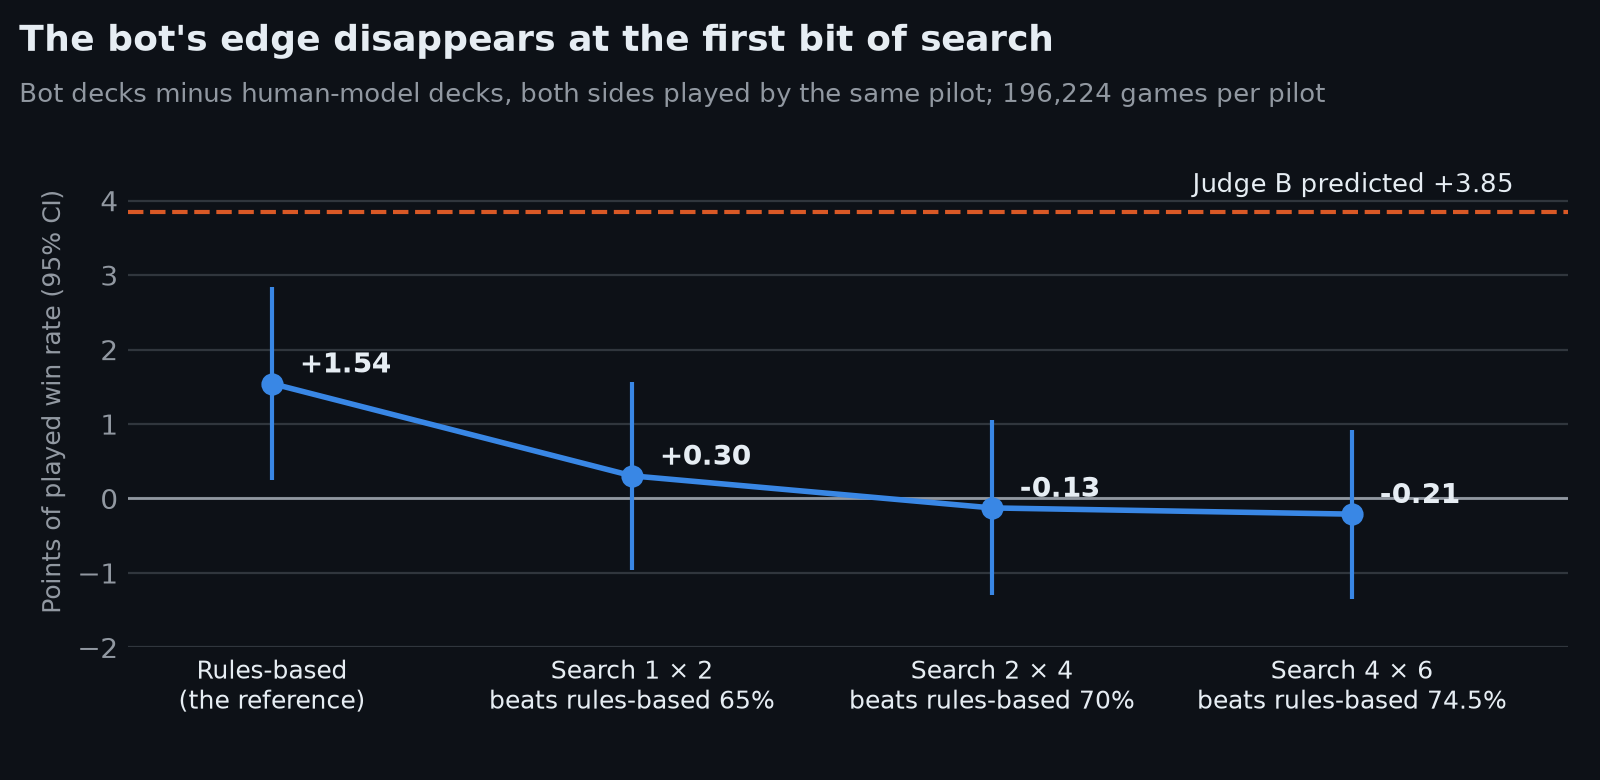
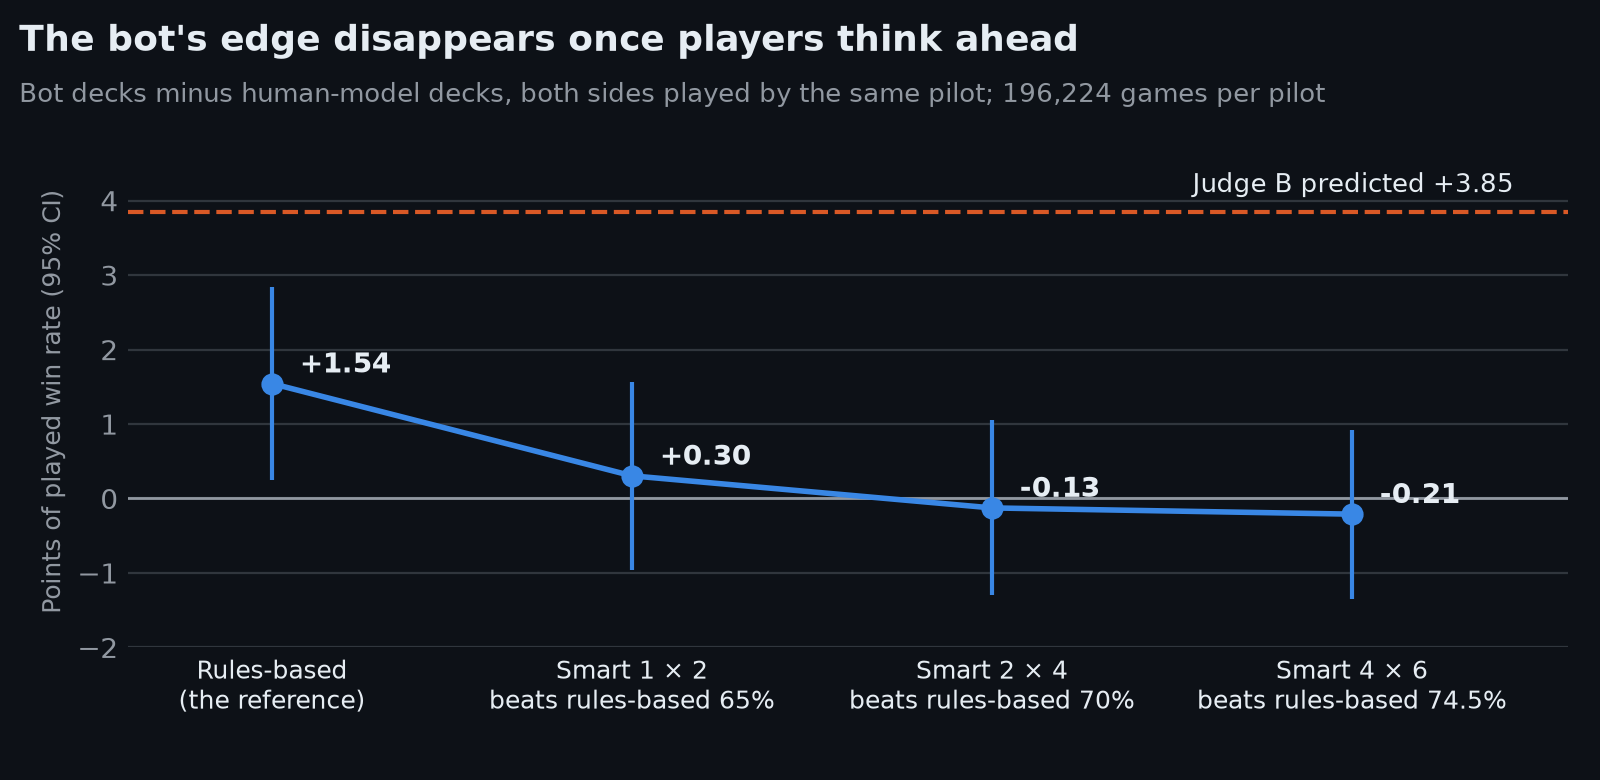
Call the rollout pilot the smart player in public docs and the ladder chart
Claude-Session: https://claude.ai/code/session_01Bo7t9xP2bSNZ3DZaJKShir

diff --git a/scripts/make_figures.py b/scripts/make_figures.py
@@ -231,7 +231,7 @@ def pilot_ladder(t, theme):
     ax.set_xlim(-0.4, len(rows) - 0.4)
     ax.set_ylim(-2, 4.6)
     ax.set_ylabel("Points of played win rate (95% CI)", color=t["ink2"], fontsize=9)
-    title(fig, t, "The bot's edge disappears at the first bit of search",
+    title(fig, t, "The bot's edge disappears once players think ahead",
           f"Bot decks minus human-model decks, both sides played by the same pilot; "
           f"{lad['games_per_pilot']:,} games per pilot")  # fmt: skip
     fig.subplots_adjust(left=0.08, right=0.98, top=0.8, bottom=0.17)

diff --git a/scripts/engine_pilot_validate.py b/scripts/engine_pilot_validate.py
@@ -186,9 +186,9 @@ def analyze():
 # Strength against the baseline, from `rollout_bench` (200 games each, 2026-11-07/08; LOG.md).
 LADDER = [
     ("baseline", "Rules-based", 0.5, 0.0),
-    ("r1c2", "Search 1 x 2", 0.650, 0.034),
-    ("r2c4", "Search 2 x 4", 0.700, 0.031),
-    ("rollout", "Search 4 x 6", 0.745, 0.029),
+    ("r1c2", "Smart 1 x 2", 0.650, 0.034),
+    ("r2c4", "Smart 2 x 4", 0.700, 0.031),
+    ("rollout", "Smart 4 x 6", 0.745, 0.029),
 ]
 
 

diff --git a/README.md b/README.md
@@ -30,7 +30,7 @@ Bolt the Bird learns this in two stages:
    two strongest pairs in real games, yet under 8% of the decks people play.
 3. **Play it out.** A Magic rules engine written in Rust plays every card in the set. Over 670,000
    played games, the bot's decks win about **1.5 points** more often when both sides play by simple
-   rules, and **nothing** more once both sides use a stronger search player. The judge's +3.9 doesn't
+   rules, and **nothing** more once both sides use a smart player that thinks a move ahead. The judge's +3.9 doesn't
    survive being played, and finding that out is what the engine was built for.
 
 <picture>
@@ -46,7 +46,7 @@ Bolt the Bird learns this in two stages:
 | **Finding** | Humans take off-color rares 3.2× as often as off-color commons, and strong drafters do it just as much | Packs 2–3 of 131,183 drafts |
 | **Judge** | Predicts deck win rate, calibrated to within about a point | 78,379 held-out games |
 | **Learning to win** | +3.85 ± 0.23 points of judged win rate, 14% fewer late rares, 81% human-like | 512 held-out tables, scored by a judge excluded from training |
-| **Playing it out** | +1.54 ± 0.66 points of played win rate (rules-based pilot); −0.21 ± 0.58 (search pilot) | The same 1,024 decks in the Rust engine, each against every deck of three separate 64-deck fields |
+| **Playing it out** | +1.54 ± 0.66 points of played win rate (rules-based player); −0.21 ± 0.58 (smart player) | The same 1,024 decks in the Rust engine, each against every deck of three separate 64-deck fields |
 
 Every number comes from a file in [`results/`](results/), and every chart is generated from those files
 by [`scripts/make_figures.py`](scripts/make_figures.py).
@@ -250,15 +250,15 @@ Foundations cards, each with a test written from its rules text (376 tests in al
 The same 512 tables were drafted by the bot and by the human model, and every deck played every
 deck of three separate fields of 64 human-model decks, once each, with the same seeds for the bot's
 deck and the human model's. Two pilots played both sides: a rules-based player (curve out, attack
-when it's safe, block to survive), and a search player that plays each candidate move out in
-games where the hidden cards are guessed again, then keeps the best. The search player beats the
+when it's safe, block to survive), and a smart player that plays each candidate move out in
+games where the hidden cards are guessed again, then keeps the best. The smart player beats the
 rules-based one 74.5% of the time.
 
 | | Bot decks | Human-model decks | Gap |
 |---|---|---|---|
 | Judge B (predicted) | 63.87% | 60.02% | **+3.85 ± 0.23** |
-| Played, rules-based pilot (196,224 games) | 50.92% | 49.38% | **+1.54 ± 0.66** |
-| Played, search pilot (196,224 games) | 49.43% | 49.64% | **−0.21 ± 0.58** |
+| Played, rules-based player (196,224 games) | 50.92% | 49.38% | **+1.54 ± 0.66** |
+| Played, smart player (196,224 games) | 49.43% | 49.64% | **−0.21 ± 0.58** |
 
 With simple pilots the bot's decks win more, on each of the three fields (+1.45, +1.53, +1.64).
 Give both sides a player that looks ahead and the edge disappears (−0.16, −0.09, −0.37): the drop
@@ -271,17 +271,17 @@ can't catch a blind spot they share; playing the games can. An earlier rules-bas
 field (258,048 games) gave +1.59 ± 0.64. Details:
 [`docs/engine/VALIDATION.md`](docs/engine/VALIDATION.md).
 
-**Where the edge goes.** Two weaker search pilots fill in the gap between the two: one that plays
+**Where the edge goes.** Two weaker smart players fill in the gap between the two: one that plays
 out only 2 moves, once each, and one that plays out 4 moves twice each. They beat the rules-based
-pilot 65% and 70% of the time; the full search pilot beats it 74.5%. Each played the same three
+pilot 65% and 70% of the time; the full smart player beats it 74.5%. Each played the same three
 round-robins.
 
 <picture>
   <source media="(prefers-color-scheme: dark)" srcset="docs/figures/pilot-ladder-dark.png">
-  <img alt="The bot decks' played edge is +1.54 points with the rules-based pilot, +0.30 with the weakest search pilot, −0.13 and −0.21 with the stronger ones; judge B predicted +3.85" src="docs/figures/pilot-ladder-light.png">
+  <img alt="The bot decks' played edge is +1.54 points with the rules-based pilot, +0.30 with the weakest smart player, −0.13 and −0.21 with the stronger ones; judge B predicted +3.85" src="docs/figures/pilot-ladder-light.png">
 </picture>
 
-It's a cliff, not a slope. The weakest search already takes away 1.24 ± 0.26 of the 1.54 points;
+It's a cliff, not a slope. The weakest smart player already takes away 1.24 ± 0.26 of the 1.54 points;
 by the 2 × 4 pilot it's all gone. (The bars are wide because they include how much the 512 deck
 pairs differ; each drop is measured on the same decks and games, so it's much tighter.) The bot
 learned to build decks that beat a player who never looks ahead. To learn decks that beat

diff --git a/PLAN.md b/PLAN.md
@@ -10,8 +10,8 @@ records choices with their reasons, so they don't get relitigated later.
 | 1 | Imitation: DraftTransformer on human picks | Done (2026-11-04): 70.5% top-1 |
 | 2 | Judge, deck builder, draft simulator | Done (2026-11-04) |
 | 2b | RL against judge A, evaluated by judge B | Done (2026-11-05): +3.85 pts over 550 iterations, stopped at diminishing returns |
-| 3 | Rust rules engine with PyO3 bindings | Done (2026-11-06): all 286 cards; played edge +1.54 ± 0.66 (rules-based pilot), −0.21 ± 0.58 (search pilot) vs. +3.85 judged |
-| 4 | Gameplay agent: rules-based, then imitation, then self-play | Rules-based and search pilots done; next |
+| 3 | Rust rules engine with PyO3 bindings | Done (2026-11-06): all 286 cards; played edge +1.54 ± 0.66 (rules-based player), −0.21 ± 0.58 (smart player) vs. +3.85 judged |
+| 4 | Gameplay agent: rules-based, then imitation, then self-play | Rules-based and smart players done; next |
 
 ## Phase 3: the rules engine
 
@@ -36,4 +36,5 @@ the whole set, and is useful early through drafts restricted to supported cards.
 | 2026-11-05 | Stop RL at 550 iterations | Gain flat (+0.02 over 25 iterations) and agreement with the human model at the 80% drift limit |
 | 2026-11-05 | Keep the White-Red lean | Real games back it (+2.1 vs. pilot skill, under 8% of decks). Not a judge exploit |
 | 2026-11-06 | Report judged and played results side by side | Played games show about a third of the judged edge. Both numbers are kept, with the gap explained |
-| 2026-11-07 | Report the round-robin, not the 16k sample | Full round-robins on three fields: the search pilot's edge is −0.21 ± 0.58, not +0.79. The judged edge doesn't survive stronger play |
+| 2026-11-07 | Report the round-robin, not the 16k sample | Full round-robins on three fields: the smart player's edge is −0.21 ± 0.58, not +0.79. The judged edge doesn't survive stronger play |
+| 2026-11-09 | Call the rollout pilot the "smart player" in anything public | Adam: "search" means something else in Magic (search your library) |

diff --git a/docs/MODEL_CARD.md b/docs/MODEL_CARD.md
@@ -59,7 +59,7 @@ drafts and games from Arena players who run its tracker, and publishes them with
   of picks. v0.1.0 shipped the iteration-150 bot (+1.99 ± 0.18).
 - **Played result:** in the project's Rust rules engine, the same decks win **+1.54 ± 0.66** points
   more played games than the human model's with a rules-based pilot, and **−0.21 ± 0.58** with a
-  search pilot that beats it 74.5% of the time (each deck against every deck of three separate
+  smart player (it plays each candidate move out before choosing) that beats it 74.5% of the time (each deck against every deck of three separate
   64-deck fields, 196,224 games per pilot). The judged edge does not survive play. See
   `docs/engine/VALIDATION.md`.
 - **Known bias:** it drafts White-Red at 45% of tables. In real 17lands games White-Red outperforms
